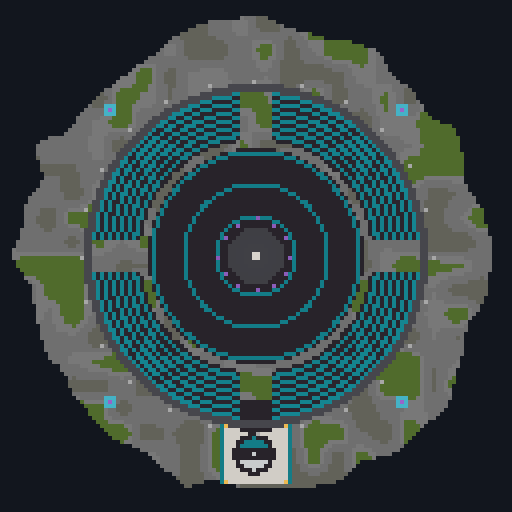
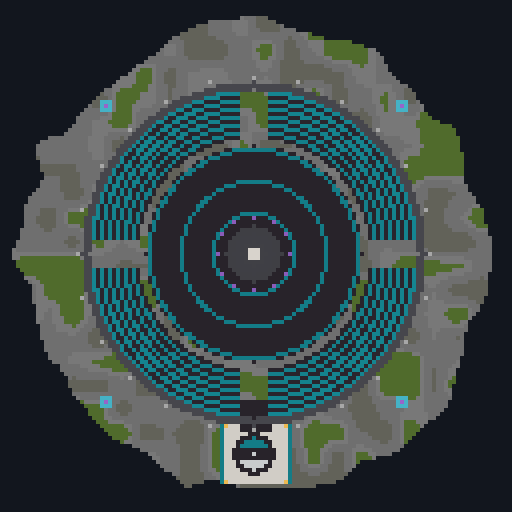
Give the Raid pedestal a 3x3 top with a centre block
Centre the arena on block 63 instead of between blocks, so the pedestal tiers
have odd width and the chiseled quartz top is 3x3 around the raid den spot.

diff --git a/infra/world-tools/warp-schematics.py b/infra/world-tools/warp-schematics.py
@@ -304,7 +304,7 @@ def build_raid():
     arrival(b)
     for z in range(100, 108):
         for x in range(60, 68): b.set(x, SURFACE, z, 'minecraft:polished_blackstone_bricks')
-    cx = cz = 63.5
+    cx = cz = 63   # whole block, so the pedestal has odd width and a true centre block
     # Arena floor with cyan rings.
     b.disc(cx, SURFACE, cz, 27, 'minecraft:polished_blackstone_bricks')
     for ring in (10.5, 18.5, 26.5): b.disc(cx, SURFACE, cz, ring, 'minecraft:cyan_concrete', inner=ring - 1)
@@ -312,7 +312,7 @@ def build_raid():
     for tier, rr in enumerate((7, 5, 3)):
         b.disc(cx, SURFACE + 1 + tier, cz, rr, 'minecraft:polished_deepslate')
         b.disc(cx, SURFACE + 1 + tier, cz, rr, 'minecraft:deepslate_tiles', inner=rr - 1)
-    b.box(63, SURFACE + 3, 63, 64, SURFACE + 3, 64, 'minecraft:chiseled_quartz_block')
+    b.box(62, SURFACE + 3, 62, 64, SURFACE + 3, 64, 'minecraft:chiseled_quartz_block')
     for a in range(0, 360, 30):
         x, z = int(round(cx + 9 * math.cos(math.radians(a)))), int(round(cz + 9 * math.sin(math.radians(a))))
         h = 2 + (a // 30) % 3

diff --git a/infra/warps/schematics/README.md b/infra/warps/schematics/README.md
@@ -19,7 +19,7 @@ Chegada ao sul, sobre o emblema de Poké Bola, olhando para o norte (yaw 180): p
 
 ## Pontos de integração
 
-- Raid: o pedestal central tem quartzo cinzelado em `x63 y19 z63`; a toca de raid fixa fica em `x63 y20 z63`.
+- Raid: o topo do pedestal é um 3×3 de quartzo cinzelado (`x62..64 y19 z62..64`) com o bloco central em `x63 y19 z63`; a toca de raid fixa fica sobre ele, em `x63 y20 z63`.
 - Safari: área de spawn é o terreno dentro da sebe (raio ~56 a partir de `x63 z63`).
 - SafariVip: cada coluna 4×4 recebe seu bioma pelo `/fillbiome`; caixas em `safarivip-biomes.json`.
 
